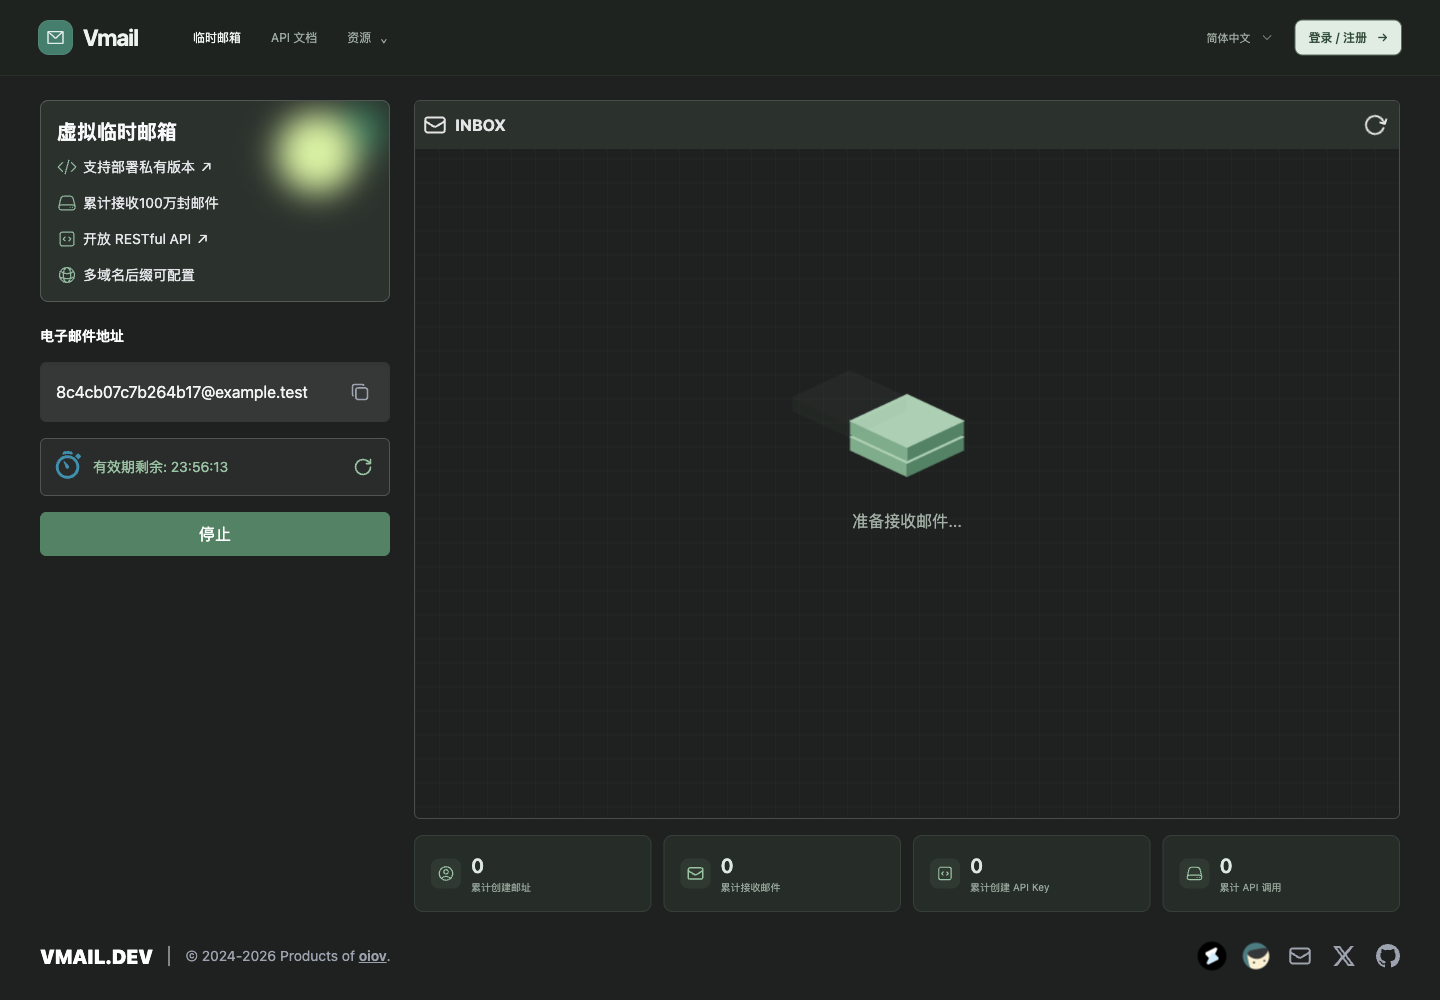
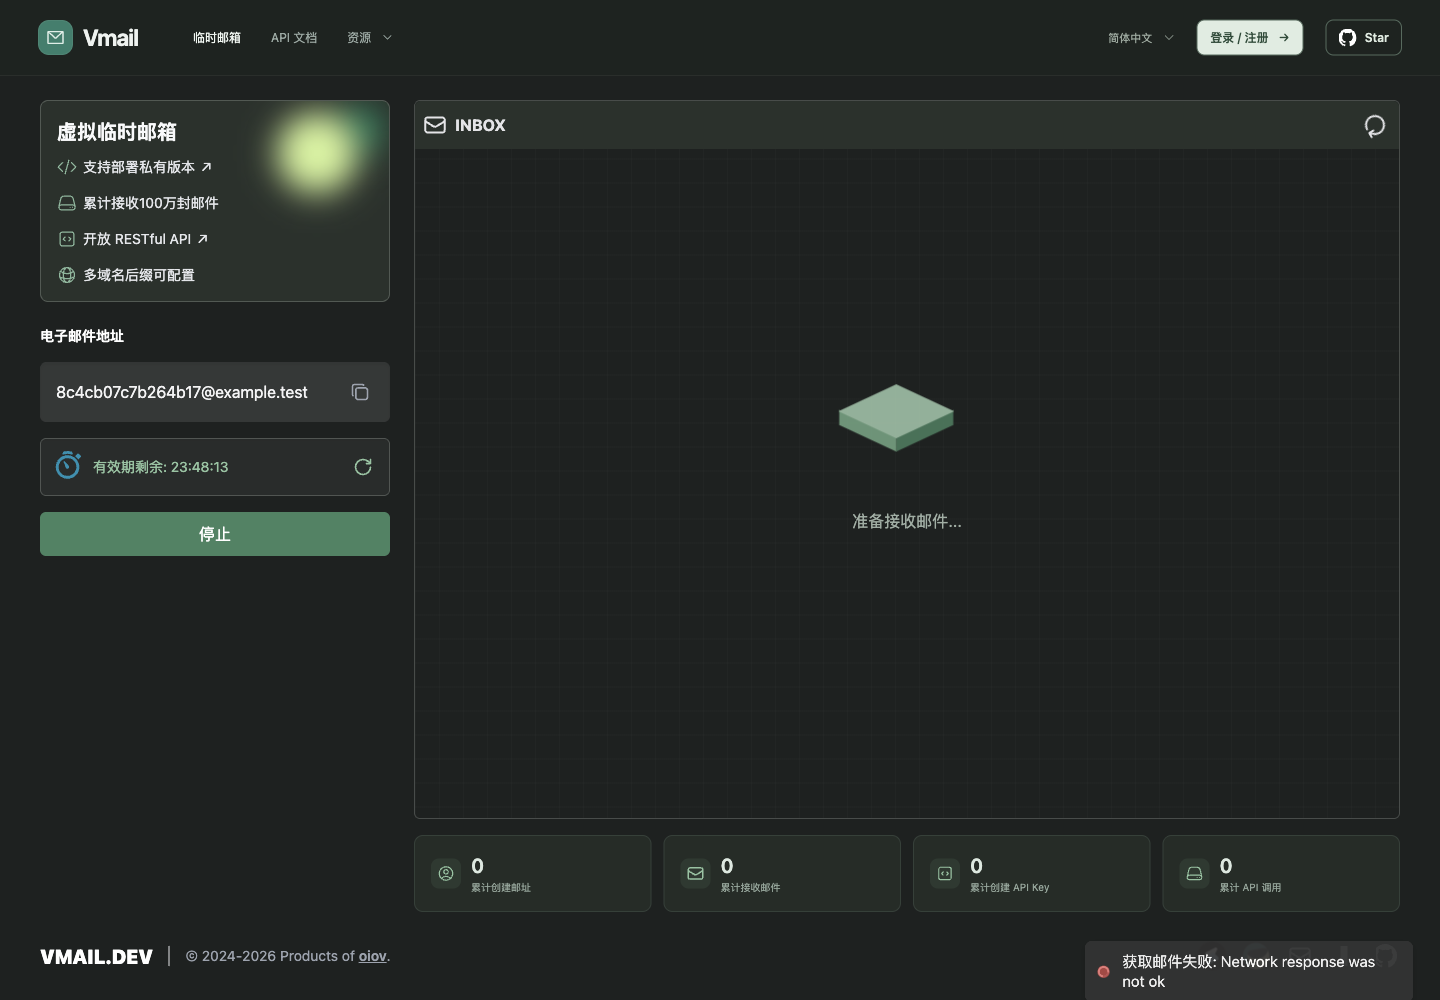
fix: restore GitHub Star button and align resource menu chevron

Changed region(s): [[0.75, 0.93, 0.9688, 0.992], [0.7812, 0.0, 0.9688, 0.062], [0.5625, 0.372, 0.6875, 0.496]]

diff --git a/frontend/src/components/Header.tsx b/frontend/src/components/Header.tsx
@@ -50,7 +50,20 @@ export function Header() {
             <details className="public-resources">
               <summary>
                 {zh ? "资源" : "Resources"}
-                <span>⌄</span>
+                <svg
+                  className="resources-chevron"
+                  width="14"
+                  height="14"
+                  viewBox="0 0 24 24"
+                  fill="none"
+                  stroke="currentColor"
+                  strokeWidth="1.8"
+                  strokeLinecap="round"
+                  strokeLinejoin="round"
+                  aria-hidden="true"
+                >
+                  <path d="m6 9 6 6 6-6" />
+                </svg>
               </summary>
               <div>
                 <button onClick={() => setAbout(true)}>{t("About")}</button>
@@ -83,6 +96,19 @@ export function Header() {
               ))}
             </select>
             <AccountButton />
+            <a
+              className="public-github-star"
+              href="https://github.com/oiov/vmail"
+              target="_blank"
+              rel="noopener noreferrer"
+              aria-label={
+                zh ? "在 GitHub 上为 Vmail 点 Star" : "Star Vmail on GitHub"
+              }
+              title="Star on GitHub"
+            >
+              <img src="/brand/github.svg" width="18" height="18" alt="" />
+              <span>Star</span>
+            </a>
           </div>
         </div>
       </header>

diff --git a/frontend/src/components/header.css b/frontend/src/components/header.css
@@ -192,3 +192,67 @@
     gap: 8px;
   }
 }
+
+.resources-chevron {
+  display: block;
+  flex-shrink: 0;
+  transition: transform 0.15s;
+}
+.public-resources[open] .resources-chevron {
+  transform: rotate(180deg);
+}
+.public-github-star {
+  display: inline-flex;
+  align-items: center;
+  justify-content: center;
+  gap: 8px;
+  height: 36px;
+  padding: 0 12px;
+  border: 1px solid #536b5d;
+  border-radius: 8px;
+  color: #dfece1;
+  font-size: 12px;
+  font-weight: 550;
+  white-space: nowrap;
+  flex-shrink: 0;
+}
+.public-github-star:hover {
+  background: #2c3c31;
+  border-color: #80a88e;
+}
+.public-github-star img {
+  display: block;
+  flex-shrink: 0;
+}
+@media (max-width: 520px) {
+  .public-github-star {
+    width: 32px;
+    height: 32px;
+    padding: 6px;
+  }
+  .public-github-star span {
+    display: none;
+  }
+  .public-header-inner {
+    gap: 12px;
+  }
+  .public-nav {
+    gap: 10px;
+  }
+}
+@media (max-width: 360px) {
+  .public-header-inner {
+    gap: 8px;
+    padding: 0 10px;
+  }
+  .public-actions {
+    gap: 6px;
+  }
+  .public-actions select {
+    width: 35px;
+  }
+  .public-account-button {
+    padding: 7px 8px;
+  }
+}
+@media(max-width:360px){.public-brand>span{width:30px;height:30px}.public-header-inner{gap:6px;padding:0 8px}.public-actions{gap:4px}.public-account-button{gap:4px;padding:7px 6px}}
